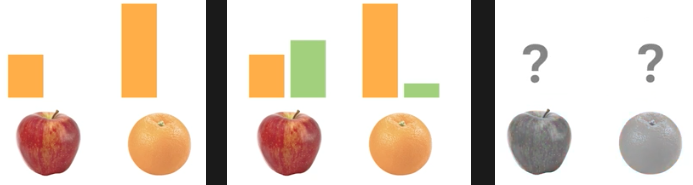
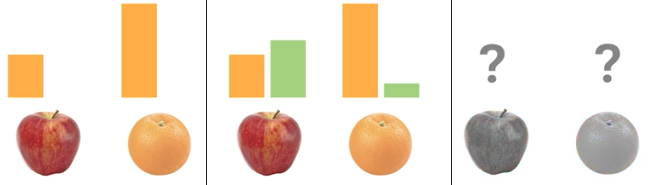
Machine Learning #time 10m

diff --git a/machine-learning/supervised-learning.rst b/machine-learning/supervised-learning.rst
@@ -16,14 +16,15 @@ Przykład: Apple vs. Orange
 
 Jak odróżnić jabłko od pomarańczy?
 
-.. figure:: img/classification-apple-orange.png
-    :align: center
-
-    Apple vs. Oranges classification using orange and green pixel count.
-
 * ilość pixeli pomarańczowych i ich stosunek do zielonych/czerwonych
 * co z czarno białymi zdjęciami?
 * co ze zdjęciami bez jabłek i pomarańczy
+
+.. figure:: img/classification-apple-orange.png
+    :scale: 75%
+    :align: center
+
+    Apple vs. Oranges classification using orange and green pixel count.
 
 .. code-block:: python
 
@@ -92,6 +93,7 @@ Weight  Texture  Label
 
 
 .. figure:: img/decision-tree.png
+    :scale: 100%
     :align: center
 
     Drzewo decyzyjne
@@ -154,13 +156,14 @@ The Iris flower data set or Fisher's Iris data set is a multivariate data set in
 
 The data set consists of 50 samples from each of three species of Iris (Iris setosa, Iris virginica and Iris versicolor). Four features were measured from each sample: the length and the width of the sepals and petals, in centimetres. Based on the combination of these four features, Fisher developed a linear discriminant model to distinguish the species from each other.
 
-Based on Fisher's linear discriminant model, this data set became a typical test case for many statistical classification techniques in machine learning such as support vector machines.
-
 .. figure:: img/iris-dataset-scatterplot.png
-    :scale: 50%
+    :scale: 75%
     :align: center
 
     Scatterplot of the Iris data set
+
+Based on Fisher's linear discriminant model, this data set became a typical test case for many statistical classification techniques in machine learning such as support vector machines.
+
 
 .. figure:: img/iris-k-means.png
     :scale: 50%
@@ -250,7 +253,7 @@ Based on Fisher's linear discriminant model, this data set became a typical test
 
 
 .. figure:: img/iris-decistion-tree.png
-    :scale: 50%
+    :scale: 75%
     :align: center
 
     Vizualization of Decision Tree Classifier
@@ -291,7 +294,7 @@ What Makes a Good Feature?
 * What features are good?
 
 .. figure:: img/dogs-bad-features.png
-    :scale: 50%
+    :scale: 35%
     :align: center
 
     Is this a good feature for classifier? Why?
